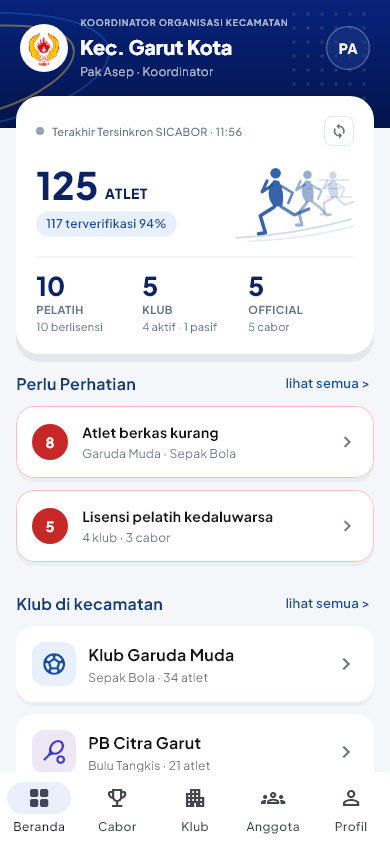
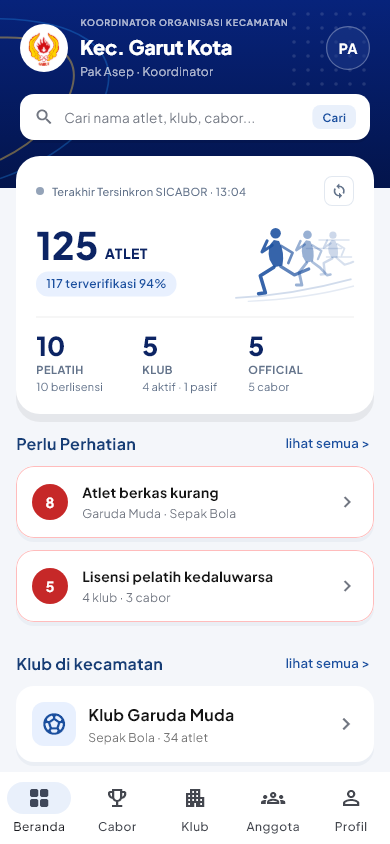
feat(home): integrasikan Search Bar di header Beranda menuju modul pencarian terpadu

diff --git a/lib/features/home_page.dart b/lib/features/home_page.dart
@@ -66,88 +66,98 @@ class HomePage extends ConsumerWidget {
                   20,
                   48,
                 ),
-                child: Row(
+                child: Column(
+                  crossAxisAlignment: CrossAxisAlignment.stretch,
+                  mainAxisSize: MainAxisSize.min,
                   children: [
-                    Container(
-                      width: 48,
-                      height: 48,
-                      padding: const EdgeInsets.all(6),
-                      decoration: const BoxDecoration(
-                        color: Colors.white,
-                        shape: BoxShape.circle,
-                      ),
-                      child: Image.asset(
-                        'assets/branding/logo-koni.png',
-                        fit: BoxFit.contain,
-                      ),
-                    ),
-                    const SizedBox(width: 12),
-                    const Expanded(
-                      child: Column(
-                        crossAxisAlignment: CrossAxisAlignment.start,
-                        children: [
-                          FittedBox(
-                            fit: BoxFit.scaleDown,
-                            alignment: Alignment.centerLeft,
-                            child: Text(
-                              'KOORDINATOR ORGANISASI KECAMATAN',
-                              style: TextStyle(
-                                fontSize: 9,
-                                fontWeight: FontWeight.w600,
-                                letterSpacing: 0.8,
-                                color: Colors.white70,
+                    Row(
+                      children: [
+                        Container(
+                          width: 48,
+                          height: 48,
+                          padding: const EdgeInsets.all(6),
+                          decoration: const BoxDecoration(
+                            color: Colors.white,
+                            shape: BoxShape.circle,
+                          ),
+                          child: Image.asset(
+                            'assets/branding/logo-koni.png',
+                            fit: BoxFit.contain,
+                          ),
+                        ),
+                        const SizedBox(width: 12),
+                        const Expanded(
+                          child: Column(
+                            crossAxisAlignment: CrossAxisAlignment.start,
+                            children: [
+                              FittedBox(
+                                fit: BoxFit.scaleDown,
+                                alignment: Alignment.centerLeft,
+                                child: Text(
+                                  'KOORDINATOR ORGANISASI KECAMATAN',
+                                  style: TextStyle(
+                                    fontSize: 9,
+                                    fontWeight: FontWeight.w600,
+                                    letterSpacing: 0.8,
+                                    color: Colors.white70,
+                                  ),
+                                ),
+                              ),
+                              SizedBox(height: 4),
+                              Text(
+                                'Kec. Garut Kota',
+                                style: TextStyle(
+                                  fontSize: 20,
+                                  fontWeight: FontWeight.w800,
+                                  color: Colors.white,
+                                  letterSpacing: -0.2,
+                                ),
+                              ),
+                              SizedBox(height: 2),
+                              Text(
+                                'Pak Asep · Koordinator',
+                                style: TextStyle(
+                                  fontSize: 12,
+                                  color: Colors.white70,
+                                ),
+                              ),
+                            ],
+                          ),
+                        ),
+                        Tooltip(
+                          message: 'Buka profil',
+                          child: InkWell(
+                            onTap: () => context.go('/profile'),
+                            borderRadius: BorderRadius.circular(22),
+                            child: Container(
+                              width: 44,
+                              height: 44,
+                              decoration: BoxDecoration(
+                                shape: BoxShape.circle,
+                                color: const Color(0xFF1E3A8A).withValues(alpha: 0.5),
+                                border: Border.all(
+                                  color: Colors.white.withValues(alpha: 0.3),
+                                  width: 1.2,
+                                ),
+                              ),
+                              alignment: Alignment.center,
+                              child: const Text(
+                                'PA',
+                                style: TextStyle(
+                                  color: Colors.white,
+                                  fontWeight: FontWeight.w700,
+                                  fontSize: 14,
+                                  letterSpacing: 0.5,
+                                ),
                               ),
                             ),
                           ),
-                          SizedBox(height: 4),
-                          Text(
-                            'Kec. Garut Kota',
-                            style: TextStyle(
-                              fontSize: 20,
-                              fontWeight: FontWeight.w800,
-                              color: Colors.white,
-                              letterSpacing: -0.2,
-                            ),
-                          ),
-                          SizedBox(height: 2),
-                          Text(
-                            'Pak Asep · Koordinator',
-                            style: TextStyle(
-                              fontSize: 12,
-                              color: Colors.white70,
-                            ),
-                          ),
-                        ],
-                      ),
-                    ),
-                    Tooltip(
-                      message: 'Buka profil',
-                      child: InkWell(
-                        onTap: () => context.go('/profile'),
-                        borderRadius: BorderRadius.circular(22),
-                        child: Container(
-                          width: 44,
-                          height: 44,
-                          decoration: BoxDecoration(
-                            shape: BoxShape.circle,
-                            color: const Color(0xFF1E3A8A).withValues(alpha: 0.5),
-                            border: Border.all(
-                              color: Colors.white.withValues(alpha: 0.3),
-                              width: 1.2,
-                            ),
-                          ),
-                          alignment: Alignment.center,
-                          child: const Text(
-                            'PA',
-                            style: TextStyle(
-                              color: Colors.white,
-                              fontWeight: FontWeight.w700,
-                              fontSize: 14,
-                              letterSpacing: 0.5,
-                            ),
-                          ),
                         ),
-                      ),
+                      ],
+                    ),
+                    const SizedBox(height: 14),
+                    _HomeSearchBar(
+                      onTap: () => context.push('/search'),
                     ),
                   ],
                 ),
@@ -570,4 +580,68 @@ class AttentionTile extends StatelessWidget {
       ],
     ),
   );
+}
+
+class _HomeSearchBar extends StatelessWidget {
+  const _HomeSearchBar({required this.onTap});
+
+  final VoidCallback onTap;
+
+  @override
+  Widget build(BuildContext context) => Semantics(
+        button: true,
+        label: 'Cari nama atlet, klub, atau cabor',
+        child: InkWell(
+          onTap: onTap,
+          borderRadius: BorderRadius.circular(14),
+          child: Container(
+            height: 46,
+            padding: const EdgeInsets.symmetric(horizontal: 14),
+            decoration: BoxDecoration(
+              color: Colors.white,
+              borderRadius: BorderRadius.circular(14),
+              boxShadow: [
+                BoxShadow(
+                  color: Colors.black.withValues(alpha: 0.08),
+                  blurRadius: 10,
+                  offset: const Offset(0, 3),
+                ),
+              ],
+            ),
+            child: Row(
+              children: [
+                const Icon(Icons.search, color: KokColors.muted, size: 20),
+                const SizedBox(width: 10),
+                const Expanded(
+                  child: Text(
+                    'Cari nama atlet, klub, cabor...',
+                    style: TextStyle(
+                      color: KokColors.muted,
+                      fontSize: 13.5,
+                    ),
+                  ),
+                ),
+                Container(
+                  padding: const EdgeInsets.symmetric(
+                    horizontal: 10,
+                    vertical: 4,
+                  ),
+                  decoration: BoxDecoration(
+                    color: KokColors.pale,
+                    borderRadius: BorderRadius.circular(8),
+                  ),
+                  child: const Text(
+                    'Cari',
+                    style: TextStyle(
+                      color: KokColors.bluePrimary,
+                      fontSize: 11.5,
+                      fontWeight: FontWeight.bold,
+                    ),
+                  ),
+                ),
+              ],
+            ),
+          ),
+        ),
+      );
 }

diff --git a/test/app_test.dart b/test/app_test.dart
@@ -10,6 +10,9 @@ import 'package:kok_app/data/models.dart';
 import 'package:kok_app/features/club_detail/club_document_tab.dart';
 import 'package:kok_app/features/clubs_page.dart';
 import 'package:kok_app/features/dashboard_decorations.dart';
+import 'package:kok_app/features/home_page.dart';
+import 'package:kok_app/features/search/global_search_page.dart';
+import 'package:kok_app/features/athlete_detail/athlete_detail_page.dart';
 
 Future<ProviderContainer> start(
   WidgetTester tester, {
@@ -369,6 +372,7 @@ void main() {
     expect(find.text('Kec. Garut Kota'), findsOneWidget);
     expect(find.text('Pak Asep · Koordinator'), findsOneWidget);
     expect(find.text('PA'), findsOneWidget);
+    expect(find.text('Cari nama atlet, klub, cabor...'), findsOneWidget);
 
     // Check Floating Stats Card
     expect(find.textContaining('Terakhir Tersinkron SICABOR'), findsOneWidget);
@@ -436,4 +440,44 @@ void main() {
     // Modal should close
     expect(find.text('Urutkan Klub'), findsNothing);
   });
+
+  testWidgets(
+    'Search flow: HomePage search bar navigates to /search, finds athlete, opens detail, and navigates back',
+    (tester) async {
+      final container = await start(tester);
+      await container
+          .read(sessionProvider.notifier)
+          .signIn('DEMO-001', 'kokgarut123', false);
+      await tester.pumpAndSettle();
+
+      // 1. Di Beranda, verifikasi keberadaan placeholder 'Cari nama atlet, klub, cabor...'
+      expect(find.text('Cari nama atlet, klub, cabor...'), findsOneWidget);
+
+      // 2. Ketuk search bar -> verifikasi pindah ke /search (GlobalSearchPage)
+      await tester.tap(find.text('Cari nama atlet, klub, cabor...'));
+      await tester.pumpAndSettle();
+      expect(find.byType(GlobalSearchPage), findsOneWidget);
+
+      // 3. Cari atlet (masukkan teks 'Voli Bina Muda')
+      await tester.enterText(find.byType(TextField), 'Voli Bina Muda');
+      await tester.pumpAndSettle();
+      expect(find.text('Atlet 1 · Voli Bina Muda'), findsOneWidget);
+
+      // 4. Ketuk kartu atlet -> verifikasi masuk ke Detail Atlet (/person/voli-atlet-0)
+      await tester.tap(find.text('Atlet 1 · Voli Bina Muda'));
+      await tester.pumpAndSettle();
+      expect(find.byType(AthleteDetailPage), findsOneWidget);
+
+      // 5. Ketuk tombol kembali -> kembali ke /search
+      await tester.tap(find.byIcon(Icons.chevron_left));
+      await tester.pumpAndSettle();
+      expect(find.byType(GlobalSearchPage), findsOneWidget);
+
+      // 6. Ketuk kembali lagi -> kembali ke Beranda (/home)
+      await tester.tap(find.byIcon(Icons.chevron_left));
+      await tester.pumpAndSettle();
+      expect(find.byType(HomePage), findsOneWidget);
+    },
+  );
 }
+

diff --git a/lib/app.dart b/lib/app.dart
@@ -13,6 +13,7 @@ import 'features/detail_pages.dart';
 import 'features/club_detail/club_detail_page.dart';
 import 'features/athlete_detail/athlete_detail_page.dart';
 import 'features/attention_page.dart';
+import 'features/search/global_search_page.dart';
 
 final routerProvider = Provider<GoRouter>((ref) {
   final refresh = ValueNotifier<bool>(ref.read(sessionProvider));
@@ -77,6 +78,10 @@ final routerProvider = Provider<GoRouter>((ref) {
       GoRoute(
         path: '/attention',
         builder: (_, s) => AttentionPage(type: s.uri.queryParameters['type']),
+      ),
+      GoRoute(
+        path: '/search',
+        builder: (_, _) => const GlobalSearchPage(),
       ),
     ],
   );

diff --git a/test/preview_test.dart b/test/preview_test.dart
@@ -50,6 +50,7 @@ void main() {
         'detail-atlet': '/person/voli-atlet-0',
         'detail-cabor': '/sport/Bulu%20Tangkis',
         'perlu-perhatian': '/attention',
+        'pencarian': '/search',
       }.entries) {
         container.read(routerProvider).go(entry.value);
         await tester.pumpAndSettle();
